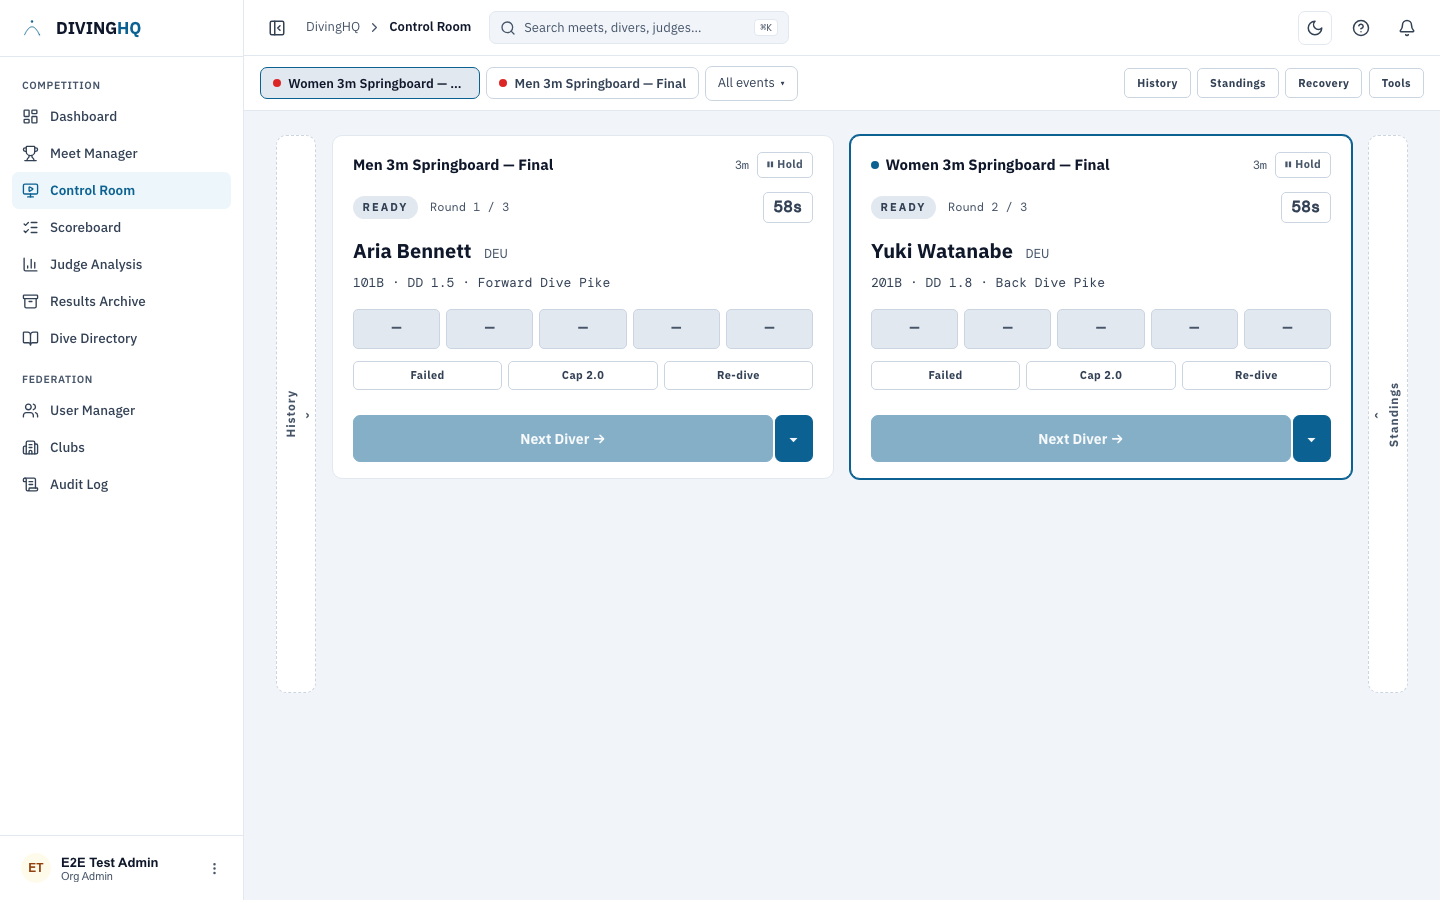
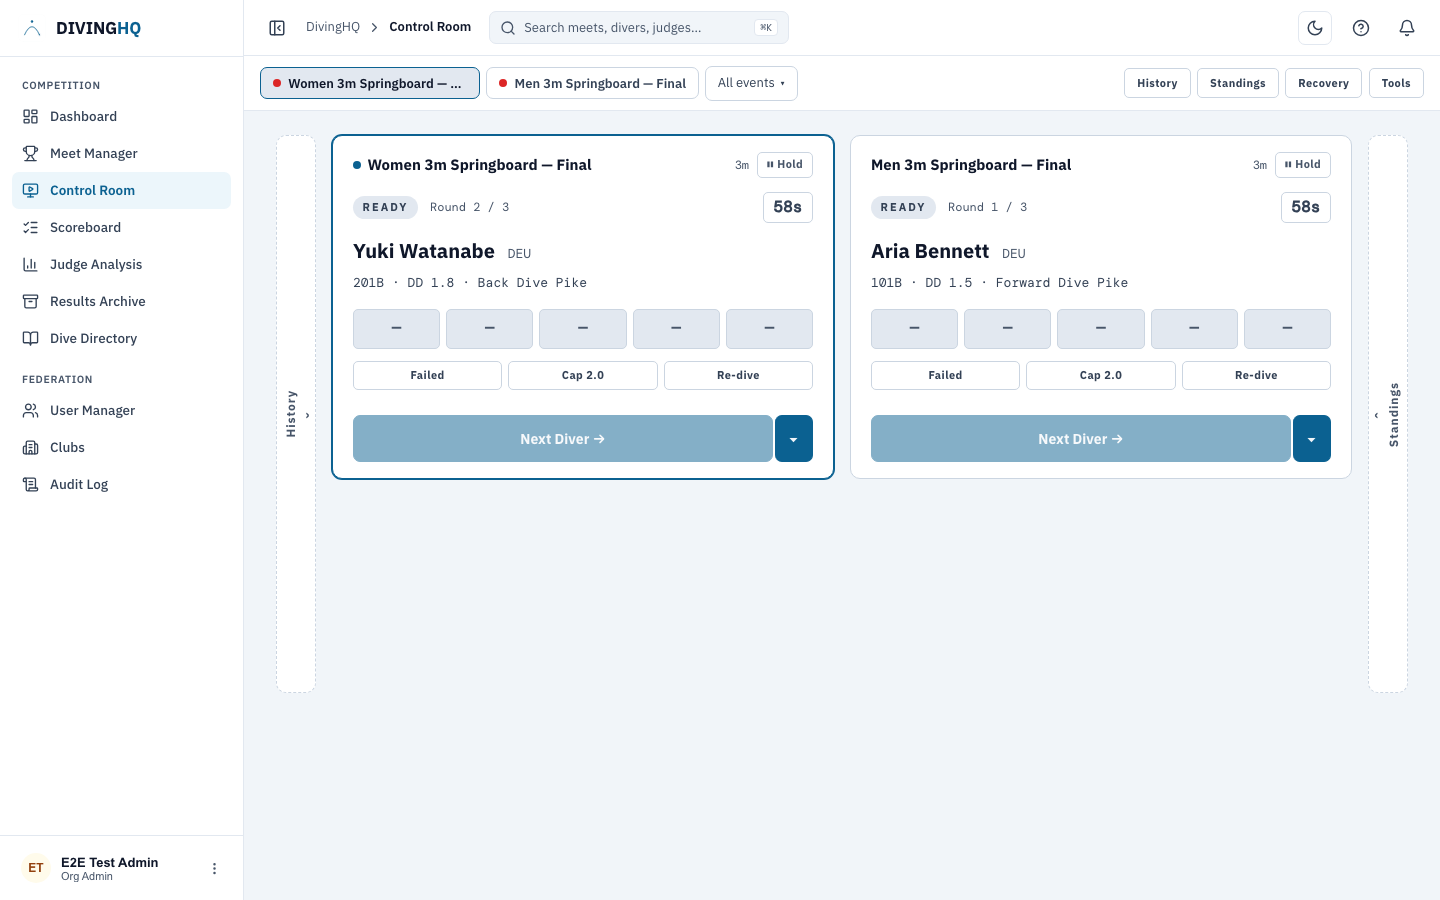
Docs: keyboard control + History judge scores in the Control Room
Follow-up to the feature commit — bring every doc surface back in step
with the multi-event Control Room now that it's keyboard-drivable and
History shows per-judge scores.

* GuideView — restore the Keyboard shortcuts section (removed earlier
  when V2 had no hotkeys) + its TOC entry, rewritten for the V2 keymap
  (1-9 focus, Space/→ advance, H hold, L announce, F/R/C referee). en.json
  shortcut strings updated to match; the bookmark hint follows.
* README — note keyboard control + the per-judge History chips (synchro
  grouped Exec A / Exec B / Sync).
* Screenshots — regenerate control-room.png + control-room-simultaneous.png
  (History now renders the judge-score chips) and refresh the in-app guide
  tile copy.

diff --git a/src/views/GuideView.vue b/src/views/GuideView.vue
@@ -59,6 +59,7 @@ const SECTIONS = [
   { id: 'overview',      key: 'overview' },
   { id: 'roles',         key: 'roles' },
   { id: 'quick-actions', key: 'quick_actions' },
+  { id: 'shortcuts',     key: 'shortcuts' },
   { id: 'glossary',      key: 'glossary' },
   { id: 'faq',           key: 'faq' },
   { id: 'wiki',          key: 'wiki' },
@@ -77,6 +78,21 @@ const TILES = [
   { id: 'coach',          to: '/coach',           img: '/guide-screenshots/coach.png',          glyph: '🎓' },
   { id: 'meet_manager',   to: '/manager',         img: '/guide-screenshots/meet-manager.png',   glyph: '📋' },
   { id: 'dive_directory', to: '/dive-directory',  img: '/guide-screenshots/dive-directory.png', glyph: '📖' },
+]
+
+// Control Room hotkeys (the multi-event console). Keys mirror
+// src/composables/useControlKeymap.js — if the key map changes
+// there, mirror it here. Every action runs on the FOCUSED pool;
+// the number keys are the only ones that switch which pool that
+// is. Keys are universal glyphs; only the descriptions are i18n'd.
+const SHORTCUTS = [
+  { keys: ['1', '…', '9'], descKey: 'focus_pool' },
+  { keys: ['Space', '→'],  descKey: 'next_diver' },
+  { keys: ['H'],           descKey: 'hold' },
+  { keys: ['L'],           descKey: 'announce' },
+  { keys: ['F'],           descKey: 'fail' },
+  { keys: ['R'],           descKey: 'redive' },
+  { keys: ['C'],           descKey: 'cap' },
 ]
 
 // Glossary of diving-specific terms. Term labels are universal
@@ -284,6 +300,24 @@ onBeforeUnmount(() => observer?.disconnect())
               </div>
             </RouterLink>
           </div>
+        </section>
+
+        <!-- Keyboard shortcuts — the multi-event Control Room
+             hotkeys. The key glyphs are universal so they stay
+             hardcoded; only the per-row descriptions are i18n'd.
+             Mirrors src/composables/useControlKeymap.js. -->
+        <section id="shortcuts" class="guide-section">
+          <h2 class="guide-h2">{{ $t('guide.section_shortcuts') }}</h2>
+          <p class="guide-section-lede">{{ $t('guide.shortcuts.lede') }}</p>
+
+          <dl class="guide-shortcuts">
+            <template v-for="row in SHORTCUTS" :key="row.descKey">
+              <dt class="guide-shortcut-keys">
+                <kbd v-for="k in row.keys" :key="k">{{ k }}</kbd>
+              </dt>
+              <dd class="guide-shortcut-desc">{{ $t(`guide.shortcut.${row.descKey}`) }}</dd>
+            </template>
+          </dl>
         </section>
 
         <!-- Glossary — diving-specific vocabulary. Terms are

diff --git a/README.md b/README.md
@@ -131,13 +131,15 @@ The `+ New Event` button opens the create-event modal — suggested templates, m
 
 The operator's cockpit during a live meet — and it now drives **two or more events at once from a single window**, so a venue running 3 m and 10 m concurrently (or a Super Final's two stages) no longer needs a browser window per pool. A **top event bar** is the only event switcher: every Live event shows as a one-tap chip (the focused one highlighted), with an **All events** dropdown for upcoming/completed and the action set — History · Standings · Recovery · Tools — on the right.
 
-With **one event live** it's the familiar three-column board: the running **History** of completed dives on the left (click any card to open the **Score Correction modal**, with a live preview of trim sum + dive points + delta as you type); the active diver in the centre — name, country chip, dive code + DD + description, the live judge tile strip, a READY / DIVING / JUDGING status pill, the 60-second WA post-warning shot clock, a Failed / Cap / Re-dive referee row, and the bottom-pinned **Next Diver / Finalise** primary with an Auto-next picker; and **Standings** on the right with an **Announce** button that pushes the board to the spectator scoreboard.
+With **one event live** it's the familiar three-column board: the running **History** of completed dives on the left — each card shows the diver, dive, and the **per-judge score chips** (trimmed marks struck through; for synchro events the chips group into Exec A / Exec B / Sync) — and a click opens the **Score Correction modal**, with a live preview of trim sum + dive points + delta as you type; the active diver in the centre — name, country chip, dive code + DD + description, the live judge tile strip, a READY / DIVING / JUDGING status pill, the 60-second WA post-warning shot clock, a Failed / Cap / Re-dive referee row, and the bottom-pinned **Next Diver / Finalise** primary with an Auto-next picker; and **Standings** on the right with an **Announce** button that pushes the board to the spectator scoreboard.
 
 ![Control Room](./docs/screenshots/control-room.png)
 
 With **multiple events live**, History and Standings collapse into edge drawers (one tap to peek the focused pool) and each Live event becomes its own **pool card** side by side — each with its own shot clock, auto-advance, Hold, judge tiles, and referee actions, so a background pool keeps scoring and can auto-advance itself while you work another. Scores route to the right pool by event id; a `set_active_diver` that the server rate-limits is caught client-side and flagged for retry; and an advisory **operator lease** warns (without blocking) if a second operator or window is driving the same event. Recovery (meet hold/resume) and the secondary-surfaces drawer (Broadcast / Reserves / Audit) round out the toolset.
 
 ![Control Room — two events at once](./docs/screenshots/control-room-simultaneous.png)
+
+**Keyboard control.** The whole console is drivable from the keyboard, and every hotkey acts on the **focused pool** — so with several pools live you `1`…`9` to switch focus, then drive that pool: `Space` / `→` advance to the next diver, `H` hold/resume, `L` announce standings, and `F` / `R` / `C` for the referee's failed-dive / re-dive / cap rulings. Hotkeys are suppressed while you're typing in a field or the command palette.
 
 #### Assign Judges
 
